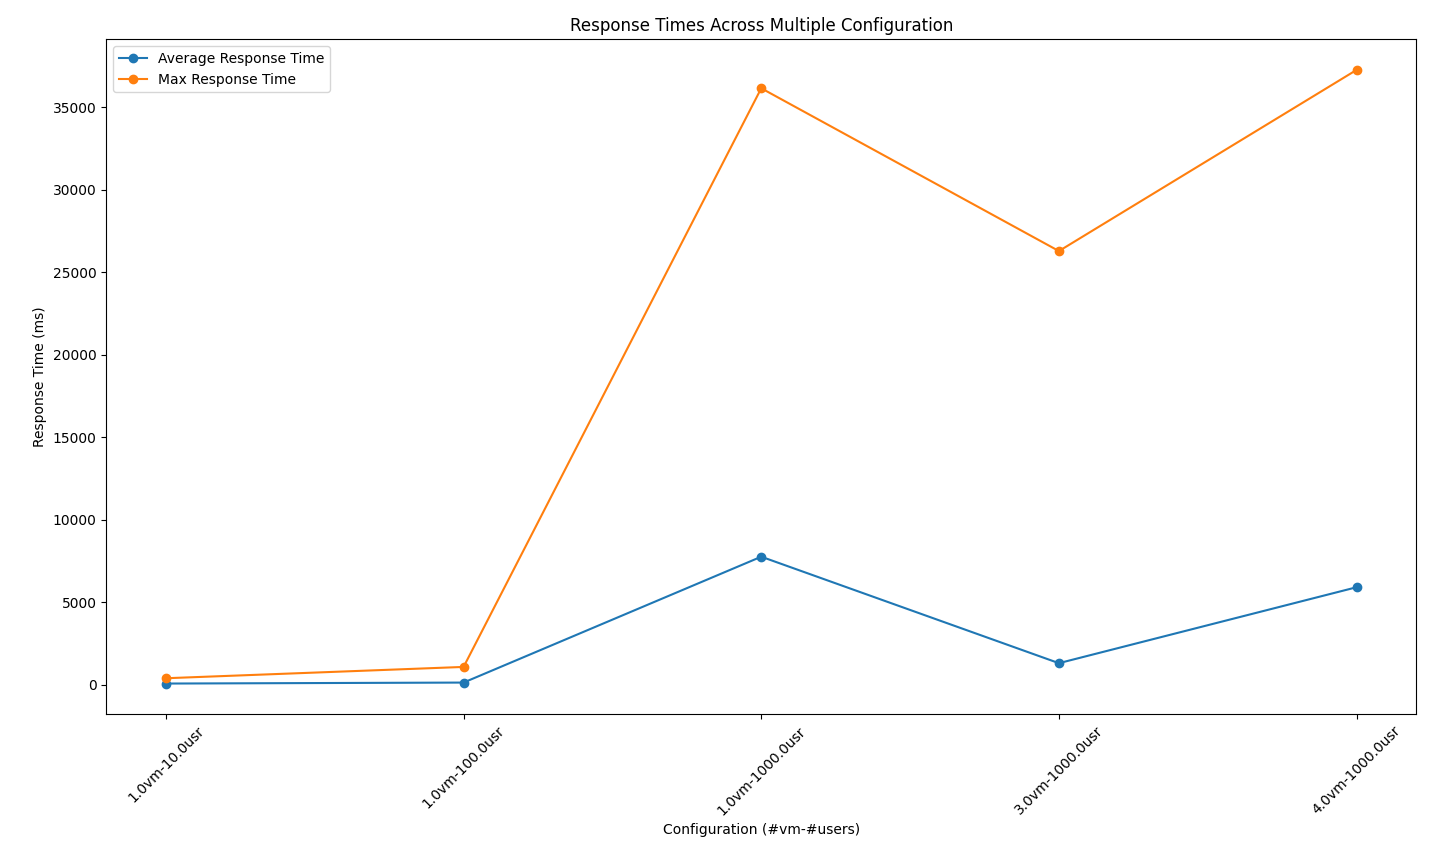
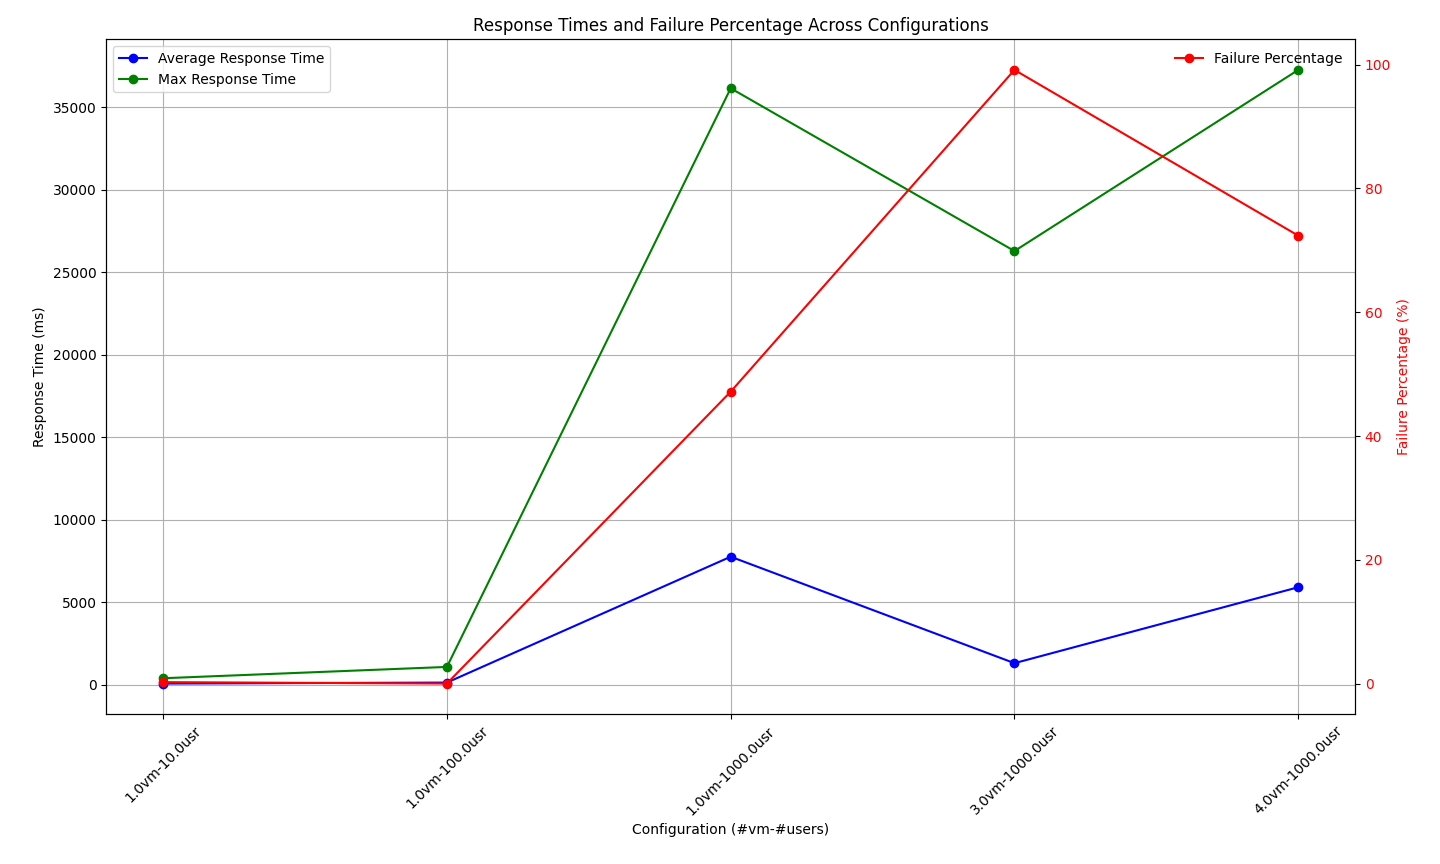
new plot with failure percentage

diff --git a/performance-evaluation/analysis.py b/performance-evaluation/analysis.py
@@ -2,8 +2,8 @@ import pandas as pd
 import matplotlib.pyplot as plt
 import os
 
-# Function to process files
-def plot_response_times_from_folder(folder_path):
+# Function to process files and plot response times and failure percentages
+def plot_metrics_from_folder(folder_path):
     all_data = []
 
     # Scroll through all files in the folder
@@ -30,38 +30,55 @@ def plot_response_times_from_folder(folder_path):
                 if not aggregated.empty:
                     avg_response_time = aggregated["Average Response Time"].values[0]
                     max_response_time = aggregated["Max Response Time"].values[0]
+                    request_count = aggregated["Request Count"].values[0]
+                    failure_count = aggregated["Failure Count"].values[0]
+
+                    # Calculate failure percentage
+                    failure_percentage = (failure_count / request_count) * 100 if request_count > 0 else 0
 
                     # Append data to the list
                     all_data.append({
                         "n": n,
                         "users": users,
                         "Average Response Time": avg_response_time,
-                        "Max Response Time": max_response_time
+                        "Max Response Time": max_response_time,
+                        "Failure Percentage": failure_percentage
                     })
 
     if not all_data:
-        print("Errore: Nessun dato trovato nella cartella.")
+        print("Error: No data found in the folder.")
         return
 
-    print(all_data)
+    # Create a DataFrame from collected data
     data_df = pd.DataFrame(all_data)
-    print(data_df)
 
     # Sort data for plotting
     data_df.sort_values(by=["users", "n"], ascending=[True, True], inplace=True)
 
     # Plot the data
-    plt.figure(figsize=(12, 8))
-    plt.plot(range(len(data_df)), data_df["Average Response Time"], marker='o', label="Average Response Time")
-    plt.plot(range(len(data_df)), data_df["Max Response Time"], marker='o', label="Max Response Time")
-    plt.xticks(range(len(data_df)), [f"{row['n']}vm-{row['users']}usr" for _, row in data_df.iterrows()], rotation=45)
-    plt.title("Response Times Across Multiple Configuration")
-    plt.ylabel("Response Time (ms)")
-    plt.xlabel("Configuration (#vm-#users)")
-    plt.legend()
+    fig, ax1 = plt.subplots(figsize=(12, 8))
+
+    # Plot response times on the primary y-axis
+    ax1.plot(range(len(data_df)), data_df["Average Response Time"], marker='o', label="Average Response Time", color='blue')
+    ax1.plot(range(len(data_df)), data_df["Max Response Time"], marker='o', label="Max Response Time", color='green')
+    ax1.set_ylabel("Response Time (ms)")
+    ax1.set_xlabel("Configuration (#vm-#users)")
+    ax1.set_xticks(range(len(data_df)))
+    ax1.set_xticklabels([f"{row['n']}vm-{row['users']}usr" for _, row in data_df.iterrows()], rotation=45)
+    ax1.legend(loc="upper left")
+    ax1.grid(True)
+
+    # Add a secondary y-axis for failure percentage
+    ax2 = ax1.twinx()
+    ax2.plot(range(len(data_df)), data_df["Failure Percentage"], marker='o', label="Failure Percentage", color='red')
+    ax2.set_ylabel("Failure Percentage (%)", color='red')
+    ax2.tick_params(axis='y', labelcolor='red')
+    ax2.legend(loc="upper right", fontsize=10, frameon=False)
+
+    plt.title("Response Times and Failure Percentage Across Configurations")
     plt.tight_layout()
     plt.show()
 
 # Specify the folder path
 folder_path = "./performance-evaluation/results"
-plot_response_times_from_folder(folder_path)
+plot_metrics_from_folder(folder_path)
